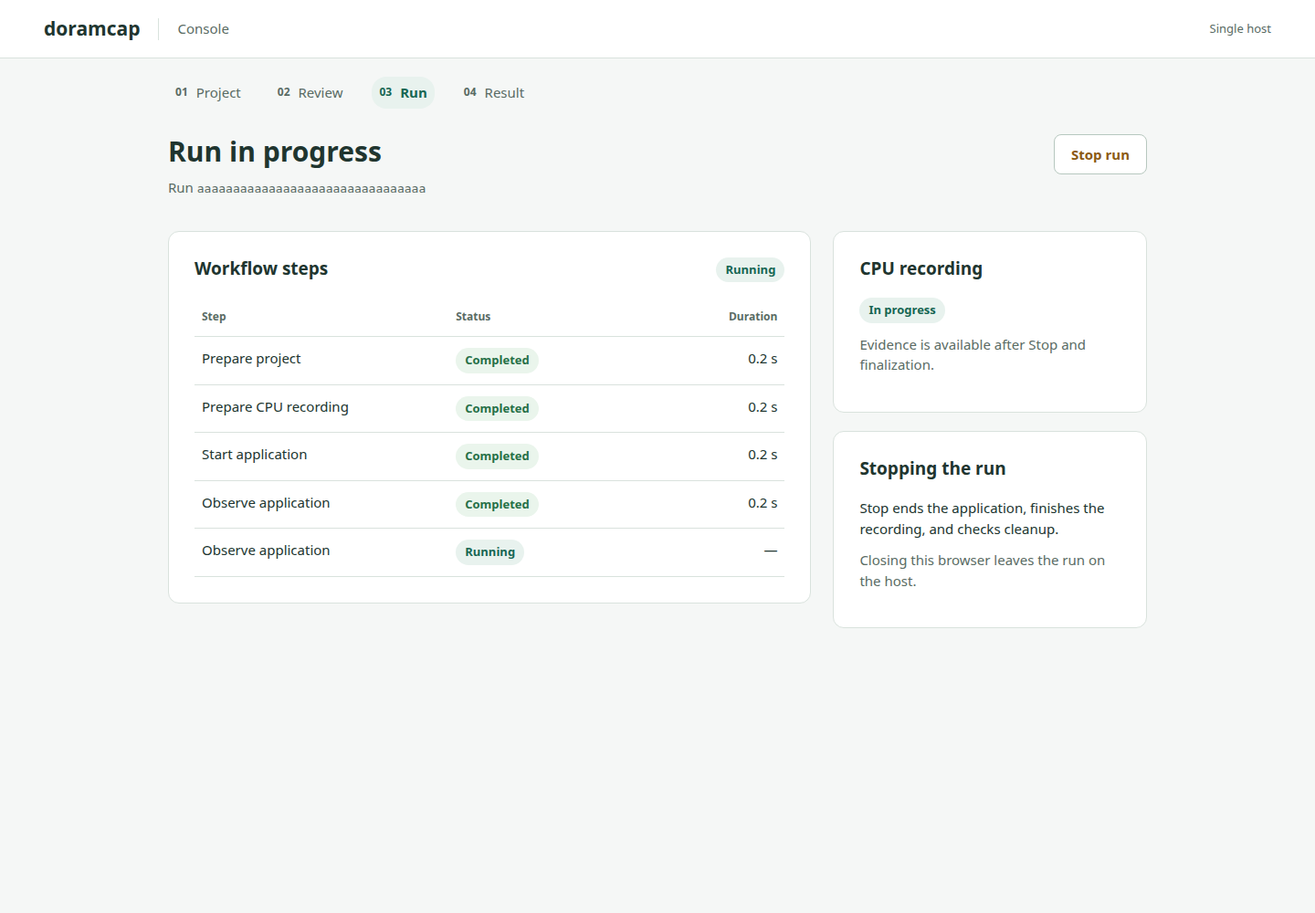
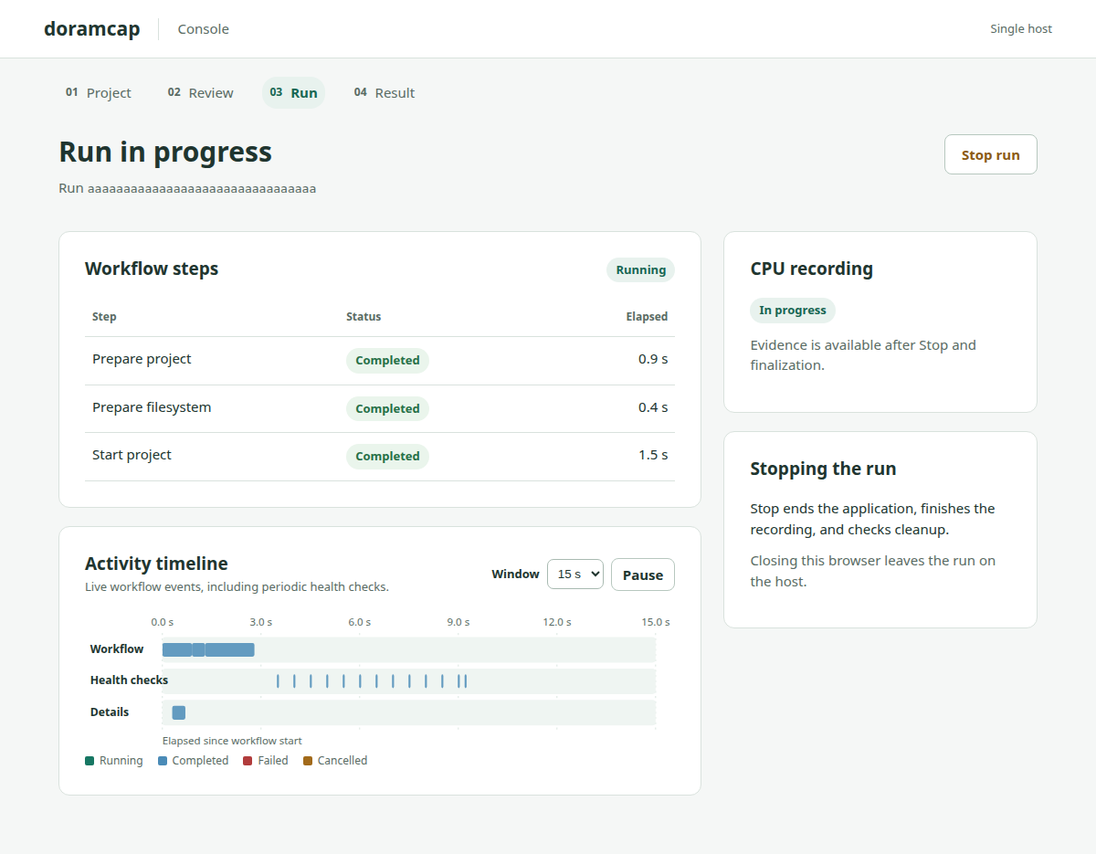
Show workflow stages and live activity timeline

diff --git a/console/frontend/src/App.tsx b/console/frontend/src/App.tsx
@@ -1,6 +1,6 @@
 import { useEffect, useRef, useState } from 'react';
 import { api, ApiError, type Review, type Snapshot } from './api';
-import { RunSteps } from './RunSteps';
+import { RunActivity } from './RunActivity';
 import { Result } from './Result';
 import { acceptsSnapshot, createRequestKey, requestKey, toggleProfile as nextProfiles } from './model';
 import { ActionButton } from './ui/ActionButton';
@@ -90,7 +90,7 @@ export function App() {
     <div className="sr-only" aria-live="polite">{phase} {state === 'STOPPING' ? 'Stopping run' : ''}</div>
     {phase === 'Project' && <><div className="heading"><div><h1>Choose a project</h1><p>Select a server-side Compose project to record.</p></div></div><div className="columns"><section className="panel"><h2>Project directory</h2><p className="muted">Enter a directory beneath the approved project root.</p><label htmlFor="directory">Directory on this host</label><input id="directory" value={directory} onChange={event => changeDirectory(event.target.value)} placeholder="/projects/my-project" autoComplete="off"/>{available.length > 0 && <fieldset><legend>Optional profiles</legend>{available.map(profile => <label className="checkbox" key={profile}><input type="checkbox" checked={profiles.includes(profile)} onChange={() => toggleProfile(profile)}/>{profile}</label>)}</fieldset>}<div className="actions"><ActionButton disabled={!directory.trim() || busy} onClick={() => void prepare()}>{busy ? 'Checking…' : available.length ? 'Review project' : 'Continue'}</ActionButton></div></section><aside><section className="panel"><h2>Before you start</h2><p>Use the project’s default Compose files and prebuilt local images. CPU recording starts with the run.</p><p className="muted">One project runs at a time on this host.</p></section></aside></div></>}
     {phase === 'Review' && review && <><div className="heading"><div><h1>Review project</h1><p>Confirm the resolved application before starting.</p></div><ActionButton onClick={() => void start()} disabled={busy}>Start run</ActionButton></div><div className="columns"><section className="panel"><div className="panel-heading"><h2>Application</h2><StatusLabel label="Ready to start" tone="success"/></div><p className="mono break">{directory}</p><h3>Enabled services</h3><table><thead><tr><th>Service</th><th>Local image</th></tr></thead><tbody>{review.services.map(service => <tr key={service.name}><td>{service.name}</td><td className="mono break">{service.imageId}</td></tr>)}</tbody></table>{review.warnings.map(warning => <p className="notice" key={warning}>{warning}</p>)}<div className="actions"><ActionButton variant="secondary" onClick={() => { selecting.current = true; setPhase('Project'); }}>Change project</ActionButton></div></section><aside><section className="panel"><h2>Run settings</h2><p>Profiles</p><p>{profiles.length ? profiles.join(', ') : 'Default'}</p><p className="muted">CPU recording will be checked after startup and finalized on Stop.</p></section></aside></div></>}
-    {phase === 'Run' && <><div className="heading"><div><h1>{state === 'STOPPING' || stopPending ? 'Stopping run' : 'Run in progress'}</h1><p>{(snapshot?.projectDirectory || directory) && <>{snapshot?.projectDirectory || directory} · </>}{(snapshot?.profiles?.length ?? 0) > 0 && <>{snapshot?.profiles?.join(', ')} · </>}Run <span className="mono">{snapshot?.runId || expected.current}</span></p></div><ActionButton variant="stop" disabled={state === 'STOPPING' || stopPending} onClick={() => void stop()}>{state === 'STOPPING' || stopPending ? 'Stopping…' : 'Stop run'}</ActionButton></div><div className="columns"><section className="panel"><div className="panel-heading"><h2>Workflow steps</h2><StatusLabel label={state === 'STOPPING' || stopPending ? 'Stopping' : 'Running'} tone="active"/></div>{snapshot?.progressIncomplete && <p className="notice">Progress incomplete</p>}{snapshot && snapshot.truncatedSteps !== '0' && <p className="notice">Older steps hidden</p>}<RunSteps steps={snapshot?.steps ?? []}/></section><aside><section className="panel"><h2>CPU recording</h2><StatusLabel label={snapshot?.monitorReady ? 'In progress' : 'Waiting for readiness'} tone={snapshot?.monitorReady ? 'active' : 'neutral'}/><p className="muted">Evidence is available after Stop and finalization.</p></section><section className="panel"><h2>Stopping the run</h2><p>Stop ends the application, finishes the recording, and checks cleanup.</p><p className="muted">Closing this browser leaves the run on the host.</p></section></aside></div></>}
+    {phase === 'Run' && <><div className="heading"><div><h1>{state === 'STOPPING' || stopPending ? 'Stopping run' : 'Run in progress'}</h1><p>{(snapshot?.projectDirectory || directory) && <>{snapshot?.projectDirectory || directory} · </>}{(snapshot?.profiles?.length ?? 0) > 0 && <>{snapshot?.profiles?.join(', ')} · </>}Run <span className="mono">{snapshot?.runId || expected.current}</span></p></div><ActionButton variant="stop" disabled={state === 'STOPPING' || stopPending} onClick={() => void stop()}>{state === 'STOPPING' || stopPending ? 'Stopping…' : 'Stop run'}</ActionButton></div><div className="columns"><div><RunActivity snapshot={snapshot} stopping={state === 'STOPPING' || stopPending} disconnected={disconnected}/></div><aside><section className="panel"><h2>CPU recording</h2><StatusLabel label={snapshot?.monitorReady ? 'In progress' : 'Waiting for readiness'} tone={snapshot?.monitorReady ? 'active' : 'neutral'}/><p className="muted">Evidence is available after Stop and finalization.</p></section><section className="panel"><h2>Stopping the run</h2><p>Stop ends the application, finishes the recording, and checks cleanup.</p><p className="muted">Closing this browser leaves the run on the host.</p></section></aside></div></>}
     {phase === 'Result' && snapshot && <Result snapshot={snapshot} newRun={newRun}/>}
   </PageFrame>;
 }

diff --git a/console/frontend/src/ui/tokens.css b/console/frontend/src/ui/tokens.css
@@ -1,1 +1,2 @@
 :root{font-family:system-ui,-apple-system,BlinkMacSystemFont,"Segoe UI",sans-serif;color:#20352f;background:#f5f7f6;font-size:15px;line-height:1.5}*{box-sizing:border-box}body{margin:0}button,input{font:inherit}button,a,input{outline-offset:2px}button:focus-visible,a:focus-visible,input:focus-visible{outline:2px solid #166653}.topbar{height:64px;background:#fff;border-bottom:1px solid #d9e2dd;display:flex;align-items:center;gap:20px;padding:0 48px;color:#596b64}.topbar strong{font-size:21px;color:#20352f}.divider{height:24px;width:1px;background:#d9e2dd}.host{margin-left:auto;font-size:13px}.page{max-width:1200px;margin:auto;padding:20px 64px 64px}.phase-rail{display:flex;gap:24px;align-items:center;flex-wrap:wrap;margin-bottom:28px}.phase{display:flex;gap:9px;align-items:center;padding:6px 8px;border-radius:16px;color:#596b64}.phase small{font-size:12px;font-weight:600}.phase.current{background:#e8f2ee;color:#166653;font-weight:600}.heading{display:flex;justify-content:space-between;align-items:flex-start;gap:24px;margin-bottom:36px}.heading h1{margin:0;font-size:30px;line-height:1.25;font-weight:650}.heading p{margin:10px 0 0;color:#596b64}.columns{display:grid;grid-template-columns:minmax(0,2.05fr) minmax(0,1fr);gap:24px;align-items:start}.columns>div,.columns>aside{display:grid;gap:20px}.panel{background:#fff;border:1px solid #d9e2dd;border-radius:12px;padding:28px;min-width:0}.panel h2{font-size:19px;line-height:1.3;margin:0 0 20px}.panel h3{font-size:15px;margin:24px 0 8px}.panel p{margin:12px 0}.panel-heading{display:flex;justify-content:space-between;align-items:flex-start;gap:12px}.muted{color:#596b64}.mono{font-family:ui-monospace,SFMono-Regular,Consolas,monospace;font-size:13px}.break{overflow-wrap:anywhere}label,legend{font-size:13px;font-weight:600;display:block;margin:20px 0 8px}input:not([type=checkbox]){width:100%;height:44px;border:1px solid #a8bab1;border-radius:8px;padding:0 12px;color:#20352f;background:#fff}fieldset{border:0;padding:0;margin:20px 0}.checkbox{display:flex;align-items:center;gap:10px;font-weight:400;margin:10px 0}.checkbox input{width:18px;height:18px;accent-color:#166653}.actions{display:flex;align-items:center;gap:12px;flex-wrap:wrap;margin-top:24px}.button{min-height:44px;border:1px solid transparent;border-radius:8px;padding:10px 18px;display:inline-flex;align-items:center;justify-content:center;font-weight:600;text-decoration:none;cursor:pointer}.button.primary{background:#166653;color:white}.button.secondary,.button.stop{background:#fff;border-color:#b7c8bf;color:#20352f}.button.stop{color:#8b5a13}.button:disabled{cursor:not-allowed;opacity:.55}.status{display:inline-block;border-radius:16px;padding:4px 10px;font-size:13px;font-weight:600;white-space:nowrap}.status.active{color:#166653;background:#e8f2ee}.status.success{color:#267047;background:#eaf5ec}.status.attention{color:#8b5a13;background:#fff3dc}.status.failure{color:#a33636;background:#fbecec}.status.neutral{color:#596b64;background:#eff2f0}.notice{padding:12px 16px;background:#fff3dc;color:#714800;border-radius:8px;margin:0 0 20px;overflow-wrap:anywhere}.failure-notice{background:#fbecec;color:#8b2929}.attention-panel{border-color:#e7c99b;background:#fffaf1}.table-wrap{max-width:100%}table{border-collapse:collapse;width:100%;table-layout:fixed}th,td{border-bottom:1px solid #d9e2dd;text-align:left;padding:12px 8px;vertical-align:top;overflow-wrap:anywhere}th{font-size:12px;color:#596b64}td .status{white-space:normal}.duration{text-align:right;width:90px}.outcomes{display:grid;gap:0}.outcomes>div{display:flex;align-items:center;justify-content:space-between;gap:12px;padding:12px 0;border-bottom:1px solid #d9e2dd}.unavailable{color:#596b64;font-size:14px}.sr-only{position:absolute;width:1px;height:1px;padding:0;margin:-1px;overflow:hidden;clip:rect(0,0,0,0);white-space:nowrap;border:0}@media(max-width:900px){.page{padding:20px 24px 48px}.columns{grid-template-columns:1fr}.heading{flex-wrap:wrap}.topbar{padding:0 24px}.phase-rail{gap:8px}.host{display:none}}@media(max-width:480px){.page{padding:16px}.panel{padding:20px}.heading h1{font-size:26px}.phase{padding:4px}.phase-rail{justify-content:space-between}.phase small{display:none}.button{max-width:100%}th,td{padding:10px 4px}.duration{width:60px}}
+.activity-heading{align-items:center;flex-wrap:wrap}.activity-heading h2{margin-bottom:4px}.activity-heading p{margin:0;font-size:13px}.timeline-controls{display:flex;align-items:center;gap:8px;flex-wrap:wrap}.timeline-controls label{margin:0;font-size:13px}.timeline-controls select{border:1px solid #a8bab1;border-radius:7px;background:#fff;color:#20352f;padding:7px}.timeline-toggle{min-height:36px;padding:6px 12px}.activity-scroll{overflow-x:auto}.activity-timeline{display:block;width:100%;height:auto;margin-top:20px}.timeline-grid{stroke:#cadad2;stroke-dasharray:3 5}.timeline-lane{fill:#eff5f2}.timeline-axis{font-size:16px;fill:#596b64}.timeline-lane-label{font-size:17px;fill:#20352f;font-weight:600}.timeline-empty{font-size:13px;fill:#596b64}.timeline-scroll-hint{display:none}.timeline-legend{display:flex;flex-wrap:wrap;gap:16px;font-size:12px;color:#596b64}.timeline-legend span{display:inline-flex;align-items:center;gap:6px}.timeline-key{width:10px;height:10px;border-radius:2px}.timeline-key.running{background:#177763}.timeline-key.completed{background:#4a8bb7}.timeline-key.failed{background:#b13c3c}.timeline-key.cancelled{background:#a26a1a}@media(max-width:480px){.timeline-scroll-hint{display:block;color:#596b64;font-size:12px;margin:4px 0}.activity-timeline{min-width:560px}.activity-heading{align-items:flex-start}.timeline-controls{width:100%}}

diff --git a/console/frontend/src/ActivityTimeline.tsx b/console/frontend/src/ActivityTimeline.tsx
@@ -1,0 +1,38 @@
+import { useState } from 'react';
+import type { Step } from './api';
+import { shortStep, stepTimes, timelineLane } from './workflow';
+
+const lanes = ['Workflow', 'Health checks', 'Details'];
+const left = 118, width = 752;
+const colors: Record<string, string> = { STARTED: '#177763', SUCCEEDED: '#4a8bb7', FAILED: '#b13c3c', PANICKED: '#b13c3c', CANCELLED: '#a26a1a' };
+
+export function ActivityTimeline({ steps, now }: { steps: Step[]; now: number }) {
+  const [windowSeconds, setWindowSeconds] = useState(15);
+  const [paused, setPaused] = useState<{ now: number; steps: Step[] } | null>(null);
+  const shown = paused?.steps ?? steps;
+  const shownNow = paused?.now ?? now;
+  const right = Math.max(windowSeconds, shownNow);
+  const start = right - windowSeconds;
+  const x = (time: number) => left + (time - start) * width / windowSeconds;
+  const visible = shown.flatMap(step => {
+    const times = stepTimes(step);
+    const end = step.state === 'STARTED' ? Math.max(shownNow, times.end) : times.end;
+    if (end < start || times.start > right) return [];
+    return [{ step, start: Math.max(start, times.start), end: Math.min(right, end) }];
+  });
+  return <section className="panel activity-panel" aria-labelledby="activity-title">
+    <div className="panel-heading activity-heading"><div><h2 id="activity-title">Activity timeline</h2><p className="muted">Live workflow events, including periodic health checks.</p></div><div className="timeline-controls"><label htmlFor="timeline-window">Window</label><select id="timeline-window" value={windowSeconds} onChange={event => setWindowSeconds(Number(event.target.value))}><option value={5}>5 s</option><option value={15}>15 s</option><option value={30}>30 s</option><option value={60}>60 s</option></select><button className="button secondary timeline-toggle" onClick={() => setPaused(paused ? null : { now, steps: [...steps] })}>{paused ? 'Follow live' : 'Pause'}</button></div></div>
+    <div className="activity-scroll"><svg className="activity-timeline" viewBox="0 0 900 210" role="img" aria-label={`Workflow activity timeline, ${paused ? 'paused' : 'following live'}, showing ${windowSeconds} seconds`}>
+      <defs><clipPath id="activity-plot"><rect x={left} y="28" width={width} height="150" /></clipPath></defs>
+      {Array.from({ length: 6 }, (_, i) => <g key={i}><line x1={left + i * width / 5} x2={left + i * width / 5} y1="28" y2="178" className="timeline-grid"/><text x={left + i * width / 5} y="17" textAnchor="middle" className="timeline-axis">{(start + i * windowSeconds / 5).toFixed(1)} s</text></g>)}
+      {lanes.map((lane, i) => <g key={lane}><rect x={left} y={34 + i * 48} width={width} height="39" rx="5" className="timeline-lane"/><text x="8" y={58 + i * 48} className="timeline-lane-label">{lane}</text></g>)}
+      <g clipPath="url(#activity-plot)">{visible.map(({ step, start: from, end }) => {
+        const x1 = x(from), spanWidth = Math.max(3, x(end) - x1), y = 43 + timelineLane(step) * 48;
+        return <rect key={`${step.session}:${step.executor}:${step.invocation}`} x={x1} y={y} width={spanWidth} height="21" rx="3" fill={colors[step.state] ?? '#72857d'} opacity="0.85"><title>{`${shortStep(step)} · ${step.state.toLowerCase()} · invocation ${step.invocation}`}</title></rect>;
+      })}</g>
+      {!shown.length && <text x="494" y="111" textAnchor="middle" className="timeline-empty">Waiting for workflow events…</text>}
+      <text x={left} y="198" className="timeline-axis">Elapsed since workflow start</text>
+    </svg></div>
+    <p className="timeline-scroll-hint">Scroll the timeline to see the latest activity.</p><div className="timeline-legend"><span><i className="timeline-key running"/>Running</span><span><i className="timeline-key completed"/>Completed</span><span><i className="timeline-key failed"/>Failed</span><span><i className="timeline-key cancelled"/>Cancelled</span></div>
+  </section>;
+}

diff --git a/console/frontend/src/render.test.tsx b/console/frontend/src/render.test.tsx
@@ -5,6 +5,7 @@ import { renderToStaticMarkup } from 'react-dom/server';
 import { App } from './App';
 import { Result } from './Result';
 import { RunSteps } from './RunSteps';
+import { ActivityTimeline } from './ActivityTimeline';
 import type { Snapshot } from './api';
 
 test('project screen has labeled controls and phase navigation', () => {
@@ -14,6 +15,17 @@ test('project screen has labeled controls and phase navigation', () => {
   assert.match(html, /aria-label="Run phases"/);
   assert.match(html, /for="directory"/);
   assert.match(html, /Continue/);
+});
+
+test('activity timeline retains repeated health-check invocations', () => {
+  // Arrange
+  const rows = ['9007199254740993', '9007199254740994'].map((invocation, index) => ({ session: 's', executor: 'local', invocation, step: 'module::ObserveProjects', state: 'SUCCEEDED', elapsedNs: String((index + 1) * 1_000_000_000), durationNs: '100000000' }));
+  // Act
+  const html = renderToStaticMarkup(<ActivityTimeline steps={rows} now={2} />);
+  // Assert
+  assert.match(html, /Health checks/);
+  assert.match(html, /invocation 9007199254740993/);
+  assert.match(html, /invocation 9007199254740994/);
 });
 
 test('blocked cleanup preserves saved recording and disables new run', () => {
@@ -28,13 +40,14 @@ test('blocked cleanup preserves saved recording and disables new run', () => {
   assert.match(html, /disabled=""[^>]*>New run/);
 });
 
-test('repeated workflow invocations remain separate and retain full identity', () => {
+test('workflow list excludes periodic checks and keeps lifecycle invocation identity', () => {
   // Arrange
-  const rows = ['9007199254740993', '9007199254740994'].map(invocation => ({ session: 's', executor: 'local', invocation, step: 'module::ObserveProjects', state: 'SUCCEEDED', durationNs: '100000000' }));
+  const rows = ['9007199254740993', '9007199254740994'].map(invocation => ({ session: 's', executor: 'local', invocation, step: 'module::LaunchProjects', state: 'SUCCEEDED', durationNs: '100000000', elapsedNs: '200000000' }));
+  rows.push({ session: 's', executor: 'local', invocation: '3', step: 'module::ObserveProjects', state: 'SUCCEEDED', durationNs: '100000000', elapsedNs: '300000000' });
   // Act
   const html = renderToStaticMarkup(<RunSteps steps={rows} />);
   // Assert
-  assert.equal((html.match(/Observe application/g) ?? []).length, 2);
+  assert.equal((html.match(/Start project/g) ?? []).length, 2);
   assert.match(html, /9007199254740993/);
-  assert.match(html, /module::ObserveProjects/);
+  assert.doesNotMatch(html, /ObserveProjects/);
 });

diff --git a/console/frontend/src/RunSteps.tsx b/console/frontend/src/RunSteps.tsx
@@ -1,14 +1,13 @@
 import type { Step } from './api';
 import { StatusLabel } from './ui/StatusLabel';
-const friendly: Record<string, string> = { PrepareRun: 'Prepare project', PrepareSystemApps: 'Prepare CPU recording', ResolveCompose: 'Resolve project', PrepareOverlays: 'Prepare filesystem', LaunchProjects: 'Start application', LaunchDoraFlows: 'Start supporting flows', ObserveProjects: 'Observe application', QuiesceProjects: 'Stop application', FinalizeRun: 'Finalize recording', RemoveProjects: 'Remove resources', WriteRunReport: 'Write run report' };
+import { elapsedDuration, isLifecycleStep, stepName } from './workflow';
+
 const labels: Record<string, string> = { STARTED: 'Running', SUCCEEDED: 'Completed', FAILED: 'Failed', CANCELLED: 'Cancelled', PANICKED: 'Panicked' };
-export function RunSteps({ steps }: { steps: Step[] }) {
-  return <div className="table-wrap"><table><thead><tr><th>Step</th><th>Status</th><th className="duration">Duration</th></tr></thead><tbody>{steps.map(step => {
-    const short = step.step.split('::').at(-1) ?? step.step;
-    const name = friendly[short] ?? step.step;
+export function RunSteps({ steps, now = 0 }: { steps: Step[]; now?: number }) {
+  const stages = steps.filter(isLifecycleStep);
+  return <div className="table-wrap"><table><thead><tr><th>Step</th><th>Status</th><th className="duration">Elapsed</th></tr></thead><tbody>{stages.map(step => {
     const label = labels[step.state] ?? 'Unknown';
     const tone = step.state === 'STARTED' ? 'active' : step.state === 'SUCCEEDED' ? 'success' : ['FAILED', 'PANICKED'].includes(step.state) ? 'failure' : 'neutral';
-    const duration = step.state === 'STARTED' ? '—' : `${(Number(step.durationNs) / 1e9).toFixed(1)} s`;
-    return <tr key={`${step.session}:${step.executor}:${step.invocation}`}><td><span title={step.step}>{name}</span><span className="sr-only"> {step.step}, invocation {step.invocation}</span></td><td><StatusLabel label={label} tone={tone}/></td><td className="duration">{duration}</td></tr>;
-  })}</tbody></table>{steps.length === 0 && <p className="muted">Waiting for workflow steps.</p>}</div>;
+    return <tr key={`${step.session}:${step.executor}:${step.invocation}`}><td><span title={step.step}>{stepName(step)}</span><span className="sr-only"> {step.step}, invocation {step.invocation}</span></td><td><StatusLabel label={label} tone={tone}/></td><td className="duration">{elapsedDuration(step, now).toFixed(1)} s</td></tr>;
+  })}</tbody></table>{stages.length === 0 && <p className="muted">Waiting for workflow steps.</p>}</div>;
 }

diff --git a/console/frontend/src/RunActivity.tsx b/console/frontend/src/RunActivity.tsx
@@ -1,0 +1,20 @@
+import { useEffect, useRef, useState } from 'react';
+import type { Snapshot } from './api';
+import { ActivityTimeline } from './ActivityTimeline';
+import { RunSteps } from './RunSteps';
+import { StatusLabel } from './ui/StatusLabel';
+import { stepTimes } from './workflow';
+
+export function RunActivity({ snapshot, stopping, disconnected }: { snapshot: Snapshot | null; stopping: boolean; disconnected: boolean }) {
+  const [clock, setClock] = useState(() => Date.now());
+  const anchor = useRef({ runId: '', sequence: '', elapsed: 0, wall: Date.now() });
+  useEffect(() => { const timer = setInterval(() => setClock(Date.now()), 250); return () => clearInterval(timer); }, []);
+  const steps = snapshot?.steps ?? [];
+  const runId = snapshot?.runId ?? '';
+  const sequence = snapshot?.sequence ?? '';
+  if (anchor.current.runId !== runId || anchor.current.sequence !== sequence) {
+    anchor.current = { runId, sequence, elapsed: Math.max(0, ...steps.map(step => stepTimes(step).end)), wall: Date.now() };
+  }
+  const now = anchor.current.elapsed + (disconnected || !steps.length ? 0 : Math.max(0, clock - anchor.current.wall) / 1000);
+  return <><section className="panel"><div className="panel-heading"><h2>Workflow steps</h2><StatusLabel label={stopping ? 'Stopping' : 'Running'} tone="active"/></div>{snapshot?.progressIncomplete && <p className="notice">Progress incomplete</p>}{snapshot && snapshot.truncatedSteps !== '0' && <p className="notice">Older activity hidden</p>}<RunSteps steps={steps} now={now}/></section><ActivityTimeline key={runId} steps={steps} now={now}/></>;
+}

diff --git a/console/frontend/src/workflow.ts b/console/frontend/src/workflow.ts
@@ -1,0 +1,37 @@
+import type { Step } from './api';
+
+const lifecycleNames: Record<string, string> = {
+  PrepareRun: 'Prepare project',
+  PrepareOverlays: 'Prepare filesystem',
+  LaunchProjects: 'Start project',
+  QuiesceProjects: 'Stop project',
+  FinalizeRun: 'Finalize recording',
+  RemoveProjects: 'Remove resources',
+  WriteRunReport: 'Write run report',
+};
+
+export const shortStep = (step: Step) => step.step.split('::').at(-1) ?? step.step;
+export const stepName = (step: Step) => lifecycleNames[shortStep(step)] ?? shortStep(step);
+export function isLifecycleStep(step: Step): boolean {
+  return step.parent == null && Object.hasOwn(lifecycleNames, shortStep(step));
+}
+export const isHealthCheck = (step: Step) => ['ObserveProjects', 'InspectCompose'].includes(shortStep(step));
+
+/** Convert elapsed and duration together so the 64-bit subtraction stays exact. */
+export function stepTimes(step: Step): { start: number; end: number } {
+  try {
+    const elapsed = BigInt(step.elapsedNs ?? '0');
+    const duration = BigInt(step.durationNs ?? '0');
+    const start = elapsed > duration ? elapsed - duration : 0n;
+    return { start: Number(start) / 1e9, end: Number(elapsed) / 1e9 };
+  } catch {
+    return { start: 0, end: 0 };
+  }
+}
+export function elapsedDuration(step: Step, now: number): number {
+  const { start, end } = stepTimes(step);
+  return Math.max(0, (step.state === 'STARTED' ? Math.max(now, end) : end) - start);
+}
+export function timelineLane(step: Step): number {
+  return isHealthCheck(step) ? 1 : isLifecycleStep(step) ? 0 : 2;
+}

diff --git a/console/frontend/src/workflow.test.ts b/console/frontend/src/workflow.test.ts
@@ -1,0 +1,26 @@
+import { strict as assert } from 'node:assert';
+import { test } from 'node:test';
+import { elapsedDuration, isLifecycleStep, stepTimes, timelineLane } from './workflow';
+import type { Step } from './api';
+
+const step = (overrides: Partial<Step>): Step => ({ session: 's', executor: 'local', invocation: '9007199254740993', step: 'compose::PrepareRun', state: 'SUCCEEDED', elapsedNs: '9007199254740999', durationNs: '9007199254740993', ...overrides });
+
+test('classifies top-level lifecycle steps separately from periodic and nested events', () => {
+  // Arrange / Act / Assert
+  assert.equal(isLifecycleStep(step({})), true);
+  assert.equal(isLifecycleStep(step({ parent: '1' })), false);
+  assert.equal(isLifecycleStep(step({ step: 'compose::ObserveProjects' })), false);
+  assert.equal(timelineLane(step({ step: 'compose::ObserveProjects' })), 1);
+  assert.equal(timelineLane(step({ step: 'compose::InspectCompose', parent: '1' })), 1);
+  assert.equal(timelineLane(step({ step: 'compose::ResolveCompose', parent: '1' })), 2);
+});
+
+test('timestamps retain exact 64-bit subtraction and running elapsed time advances', () => {
+  // Arrange
+  const long = step({});
+  const running = step({ elapsedNs: '2000000000', durationNs: '0', state: 'STARTED' });
+  // Act / Assert
+  assert.equal(stepTimes(long).start, 6e-9);
+  assert.equal(elapsedDuration(running, 5), 3);
+  assert.equal(elapsedDuration(step({ elapsedNs: '5000000000', durationNs: '3000000000' }), 9), 3);
+});

diff --git a/console/frontend/src/api.ts b/console/frontend/src/api.ts
@@ -1,6 +1,6 @@
 export interface Service { name: string; imageId: string }
 export interface Review { preparedId: string; runId: string; availableProfiles: string[]; selectedProfiles: string[]; services: Service[]; warnings: string[] }
-export interface Step { session: string; executor: string; invocation: string; step: string; state: string; durationNs: string }
+export interface Step { session: string; executor: string; invocation: string; step: string; state: string; durationNs: string; elapsedNs?: string; parent?: string | null }
 export interface Outcome { execution: string; writersStopped?: boolean | null; recordingFinalized?: boolean | null; boundaryClean?: boolean | null; eventStreamHealthy?: boolean | null }
 export interface Snapshot { phase: string; runId: string; steps: Step[]; sequence: string; lostEvents: string; truncatedSteps: string; overflowSteps: string; progressIncomplete: boolean; outcome: Outcome | null; cpuAvailable: boolean; reportAvailable: boolean; monitorReady: boolean; projectDirectory?: string; profiles?: string[] }
 export class ApiError extends Error { constructor(public code: string) { super(code); } }

diff --git a/console/server/native/src/progress.rs b/console/server/native/src/progress.rs
@@ -4,6 +4,23 @@ use workflow_protocol::{Event, event::State};
 
 const LIMIT: usize = 512;
 
+// Keep the finite top-level Compose lifecycle visible as periodic checks age out.
+fn lifecycle_step(event: &Event) -> bool {
+    event.parent.is_none()
+        && matches!(
+            event.step.rsplit("::").next(),
+            Some(
+                "PrepareRun"
+                    | "PrepareOverlays"
+                    | "LaunchProjects"
+                    | "QuiesceProjects"
+                    | "FinalizeRun"
+                    | "RemoveProjects"
+                    | "WriteRunReport"
+            )
+        )
+}
+
 /// Current invocation rows and independent indicators of missing history.
 #[derive(Default)]
 pub struct Progress {
@@ -49,7 +66,7 @@ impl Progress {
             if let Some(index) = self
                 .rows
                 .iter()
-                .position(|row| row.state != State::Started as i32)
+                .position(|row| row.state != State::Started as i32 && !lifecycle_step(row))
             {
                 self.rows.remove(index);
                 self.truncated = self.truncated.saturating_add(1);
@@ -99,6 +116,29 @@ mod tests {
         assert_eq!(progress.rows().len(), 512);
         assert_eq!(progress.truncated, 9_488);
         assert_eq!(progress.overflow, 0);
+        assert!(!progress.incomplete());
+    }
+    #[test]
+    fn lifecycle_rows_survive_periodic_telemetry_eviction() {
+        // Arrange
+        let mut progress = Progress::default();
+        let mut lifecycle = event(1, 1, State::Succeeded);
+        lifecycle.step = "workload_docker::workflow::PrepareRun".into();
+        progress.apply(lifecycle);
+        // Act
+        for id in 2..=2_001 {
+            let mut check = event(id, id, State::Succeeded);
+            check.step = "workload_docker::workflow::ObserveProjects".into();
+            progress.apply(check);
+        }
+        // Assert
+        assert_eq!(progress.rows().len(), 512);
+        assert_eq!(progress.truncated, 1_489);
+        assert_eq!(
+            progress.rows()[0].step,
+            "workload_docker::workflow::PrepareRun"
+        );
+        assert_eq!(progress.rows().last().unwrap().invocation, 2_001);
         assert!(!progress.incomplete());
     }
     #[test]

diff --git a/console/docs/102926-console-mvp.md b/console/docs/102926-console-mvp.md
@@ -12,7 +12,7 @@ Use local prebuilt images and the existing CPU monitor. First qualification uses
 a small Compose fixture; vEDGAR `singlepc` follows separately.
 
 Defer custom file/env pickers, individual service selection, history browsing,
-event replay, charts, workflow editing, builds/pulls and automatic crash recovery.
+event replay, general-purpose charts, workflow editing, builds/pulls and automatic crash recovery.
 Keep the existing filesystem policy and capture limitations; no new isolation or
 provenance subsystem belongs to this plan.
 
@@ -421,3 +421,27 @@ ARM64 worker job 500 passed on the completed implementation and expanded accepta
   Console acceptance harness separately; the worker suite does not run that new harness.
 
 Acceptance evidence is recorded beside each milestone above; unchecked items remain incomplete.
+
+## M6 — Workflow stages and live activity timeline
+
+The requested timeline uses existing workflow telemetry, following the activity demo's moving SVG view. It does not add event replay or a new telemetry source.
+
+**Work items**
+
+- [x] Show top-level Compose lifecycle steps with status and elapsed duration; omit periodic checks from this list.
+- [x] Show a moving, bounded timeline of workflow events, including health checks, with pause and time-window controls.
+- [x] Retain lifecycle rows within the existing bounded reducer as old periodic events are evicted; preserve loss accounting and full invocation IDs.
+
+**Validation**
+
+Evidence (2026-10-29): the nine frontend tests and production build passed, and five native reducer tests passed, including 2,000 observations with lifecycle retention and exact eviction accounting. Chromium checks at 1200 px and 390 px verified the stage list excludes periodic checks, the timeline moves and pauses, the running duration advances, and telemetry loss remains visible.
+
+The earlier interactive demo run is blocked with cleanup unverified; its recording was saved. Real-Docker acceptance for this change is pending resolution of that run, so no second run is started behind the block. ARM64 preliminary job 502 passed.
+
+The updated package passed its startup smoke test and was installed for the interactive demo. Restart restored the same blocked run with its CPU recording and report available.
+
+Local default-feature workspace tests, storage without default features, both Clippy variants, formatting, boundaries, snapshot synchronization and the clean all-feature examples/binaries build passed. The first all-feature workspace attempt ran out of disk space while linking an example; the lease's disposable build artifacts were removed and the clean retry passed. Server tests and the packaged startup smoke test also passed. Workspace-ignored capability and CUDA tests were not run by those commands.
+
+- [x] Test stage filtering, 64-bit timestamp arithmetic, moving/paused timeline, loss display and bounded lifecycle retention.
+- [x] Check the run view in Chromium at desktop and narrow widths; run frontend tests/build and Rust reducer tests.
+- [ ] Run applicable local CI, final-source ARM64 validation and the separate real-Docker Console acceptance harness; record failures and skipped checks.
